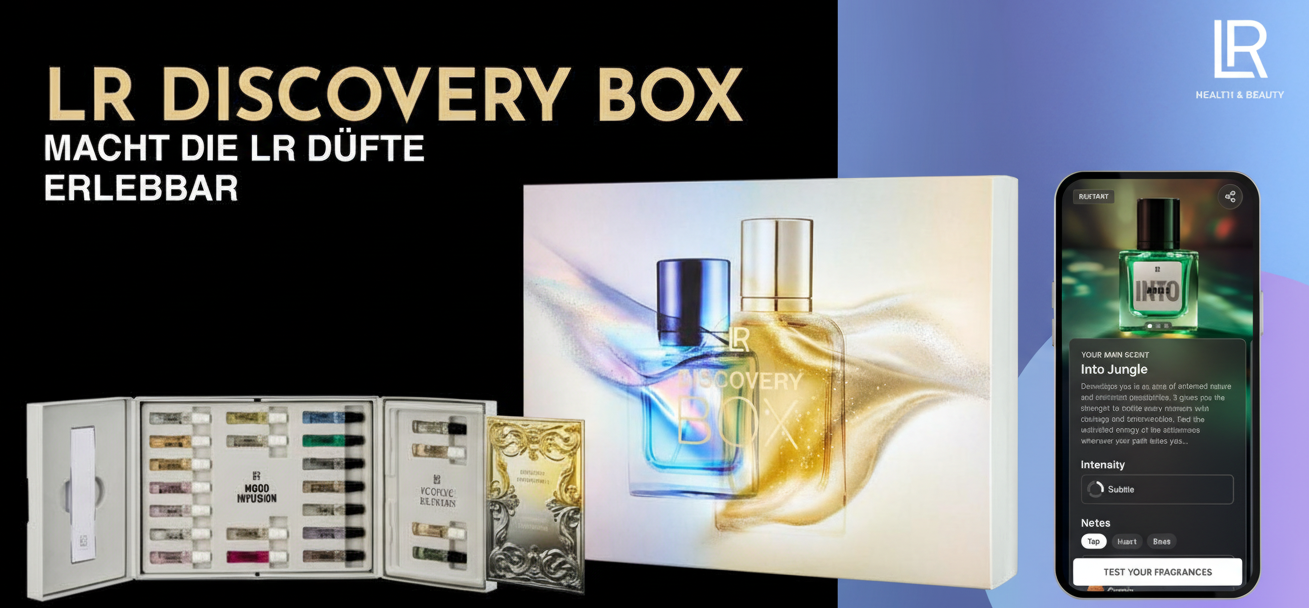
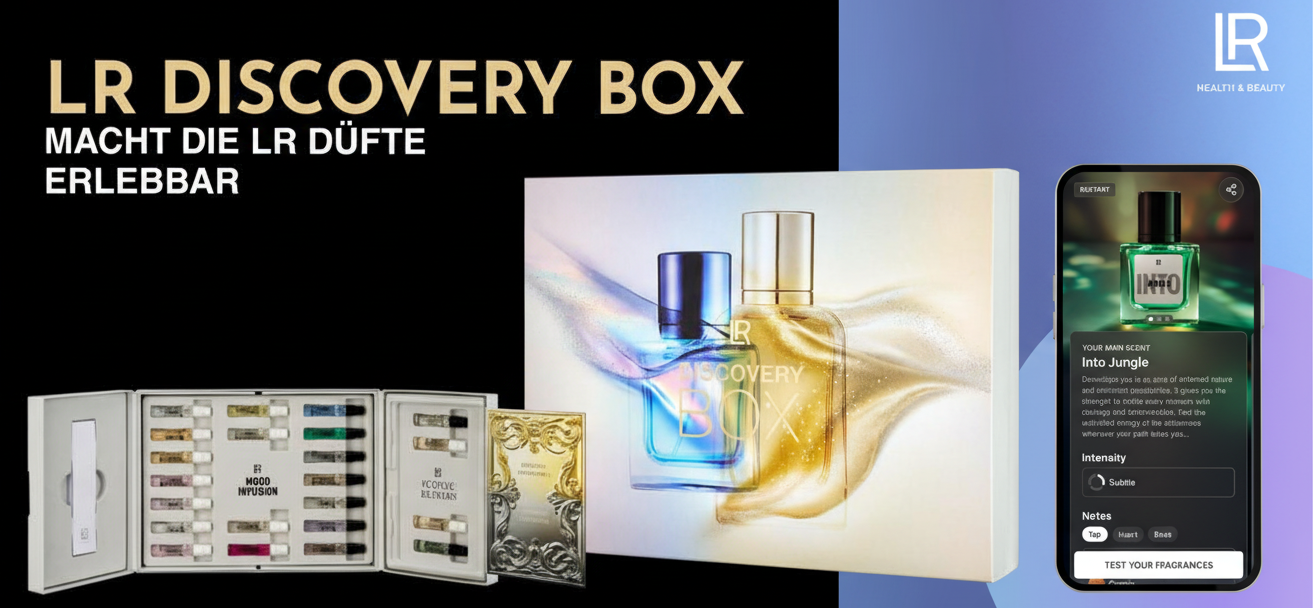
Add slide_20a_discovery_box: duplicate of folie 20 with Discovery Box content

Changed region(s): [[0.0, 0.25, 1.0, 1.0], [0.0306, 0.0938, 0.5806, 0.3438], [0.9167, 0.0, 0.9778, 0.1562]]

diff --git a/slides/slide_20a_discovery_box.html b/slides/slide_20a_discovery_box.html
@@ -1,0 +1,150 @@
+<!DOCTYPE html>
+<html lang="de">
+<head>
+    <meta charset="UTF-8">
+    <meta name="viewport" content="width=device-width, initial-scale=1.0">
+    <title>LR DISCOVERY BOX</title>
+    <link href="https://fonts.googleapis.com/css2?family=Montserrat:wght@400;700;900&display=swap" rel="stylesheet">
+    <link rel="stylesheet" href="https://cdnjs.cloudflare.com/ajax/libs/font-awesome/6.4.0/css/all.min.css">
+    <style>
+        body {
+            margin: 0;
+            padding: 0;
+            font-family: 'Montserrat', sans-serif;
+            overflow: hidden;
+        }
+        .slide-container {
+            width: 1280px;
+            min-height: 720px;
+            background: #000000;
+            position: relative;
+            display: grid;
+            grid-template-columns: 1fr 1fr;
+            gap: 40px;
+            padding: 80px 60px;
+            box-sizing: border-box;
+            align-items: center;
+        }
+        .lr-logo {
+            position: absolute;
+            top: 30px;
+            right: 30px;
+            height: 80px;
+            width: auto;
+            z-index: 10;
+        }
+        .watermark-logo {
+            position: absolute;
+            top: 50%;
+            left: 50%;
+            transform: translate(-50%, -50%);
+            height: 500px;
+            width: auto;
+            opacity: 0.08;
+            z-index: 1;
+        }
+        .content-left {
+            position: relative;
+            z-index: 5;
+        }
+        .headline {
+            font-size: 48px;
+            font-weight: 900;
+            background: linear-gradient(135deg, #9B7E3C 0%, #C9A961 15%, #E9D78E 30%, #F4E4A6 45%, #E9D78E 55%, #D5B455 70%, #C9A961 85%, #9B7E3C 100%);
+            -webkit-background-clip: text;
+            -webkit-text-fill-color: transparent;
+            background-clip: text;
+            line-height: 1.2;
+            margin-bottom: 40px;
+        }
+        .fact-item {
+            display: flex;
+            align-items: flex-start;
+            margin-bottom: 25px;
+        }
+        .fact-icon {
+            color: #D4AF37;
+            font-size: 24px;
+            margin-right: 15px;
+            margin-top: 2px;
+            flex-shrink: 0;
+        }
+        .fact-text {
+            font-size: 20px;
+            font-weight: 400;
+            color: #FFFFFF;
+            line-height: 1.5;
+            margin: 0;
+        }
+        .highlight {
+            background: linear-gradient(135deg, #9B7E3C 0%, #C9A961 15%, #E9D78E 30%, #F4E4A6 45%, #E9D78E 55%, #D5B455 70%, #C9A961 85%, #9B7E3C 100%);
+            -webkit-background-clip: text;
+            -webkit-text-fill-color: transparent;
+            background-clip: text;
+            font-weight: 700;
+        }
+        .content-right {
+            position: relative;
+            z-index: 5;
+            display: flex;
+            align-items: center;
+            justify-content: center;
+        }
+        .main-image {
+            width: 100%;
+            height: auto;
+            max-height: 500px;
+            object-fit: contain;
+            padding: 2px;
+            background: linear-gradient(135deg, #9B7E3C, #E9D78E, #9B7E3C);
+            border: 3px solid #000000;
+            border-radius: 8px;
+        }
+        .placeholder {
+            width: 500px;
+            height: 400px;
+            background: #1a1a1a;
+            display: flex;
+            align-items: center;
+            justify-content: center;
+            color: #D4AF37;
+            font-size: 18px;
+            font-weight: 700;
+            text-align: center;
+            padding: 40px;
+            border-radius: 8px;
+        }
+    </style>
+</head>
+<body>
+    <div class="slide-container">
+        <img src="assets/images/lr_40_jahre_logo_transparent.png" alt="LR 40 Jahre" class="lr-logo">
+        <img src="assets/images/team_logo.png" alt="Watermark" class="watermark-logo">
+        
+        <div class="content-left">
+            <h1 class="headline">LR DISCOVERY BOX</h1>
+            <div class="fact-item">
+                <i class="fas fa-heartbeat fact-icon"></i>
+                <p class="fact-text"><span class='highlight'>Macht die LR Düfte</span> erlebbar</p>
+            </div>
+            <div class="fact-item">
+                <i class="fas fa-leaf fact-icon"></i>
+                <p class="fact-text"><span class='highlight'>Mood Infusion</span> & Iconic Elixirs</p>
+            </div>
+            <div class="fact-item">
+                <i class="fas fa-pills fact-icon"></i>
+                <p class="fact-text"><span class='highlight'>Duftfinder-App</span> für perfekte Beratung</p>
+            </div>
+            <div class="fact-item">
+                <i class="fas fa-dumbbell fact-icon"></i>
+                <p class="fact-text"><span class='highlight'>Interaktives</span> Verkaufserlebnis</p>
+            </div>
+
+        </div>
+        
+        <div class="content-right">
+            <img src="assets/images/discovery_box_duftfinder.png" alt="LR Discovery Box" class="main-image">
+        </div>
+    </div>
+</body>
+</html>
